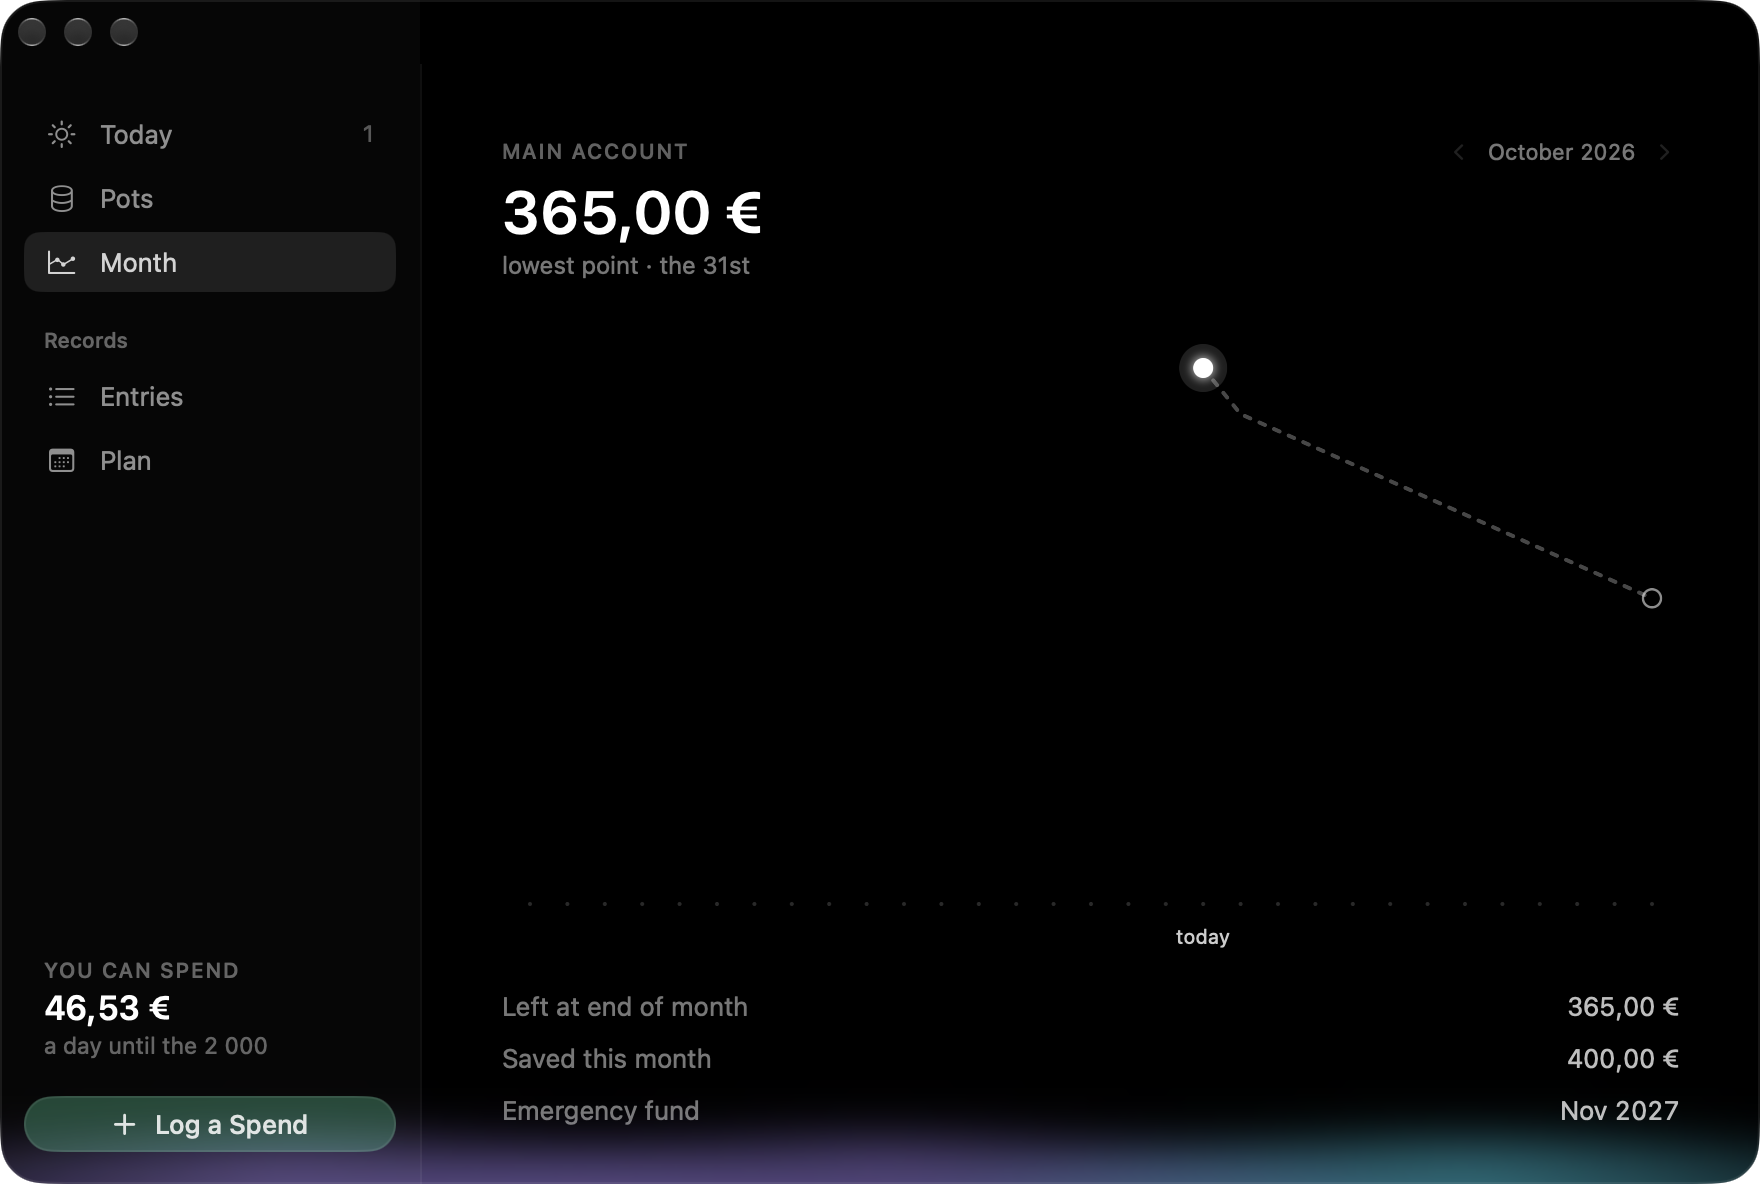
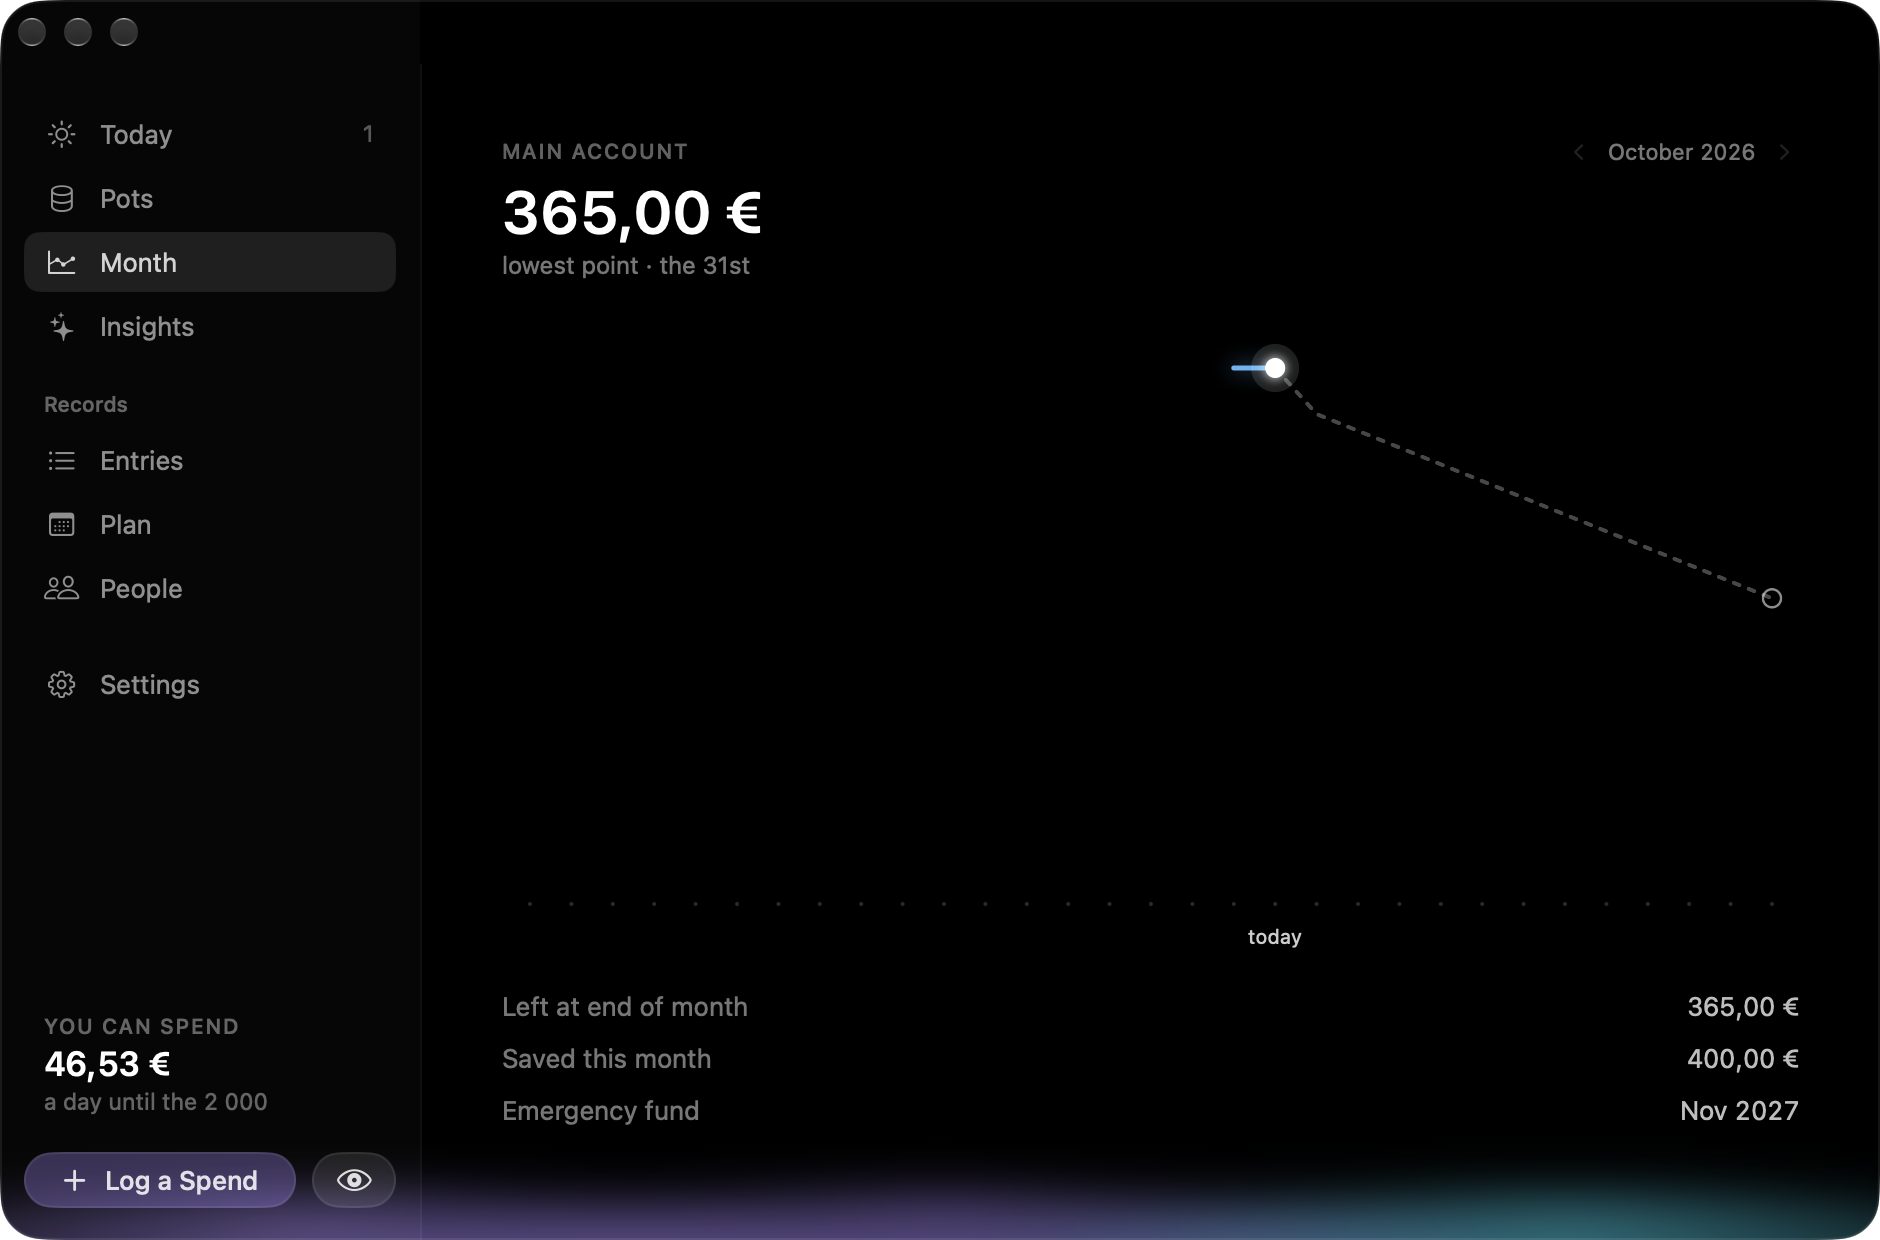
The README shows Tally as it is now: Insights, the first run, yearly items, paying by card or cash, a window that grows

diff --git a/README.md b/README.md
@@ -8,6 +8,8 @@ today, what's still to pay this month, and when your emergency fund will be full
   <img src="docs/screenshots/pots.png" width="49%" alt="Pots: each account as a tube of light">
   <img src="docs/screenshots/month.png" width="49%" alt="Month: your main account as a line through the month">
   <img src="docs/screenshots/plan.png" width="49%" alt="The plan, grouped as you think of it">
+  <img src="docs/screenshots/insights.png" width="49%" alt="Insights, and questions answered on your Mac">
+  <img src="docs/screenshots/firstrun.png" width="49%" alt="The first run builds your own plan">
 </p>
 
 <sub>Screenshots use made-up example data.</sub>
@@ -24,16 +26,18 @@ today, what's still to pay this month, and when your emergency fund will be full
   planned, with the lowest point marked. Scroll back through past months.
 - **Your plan** is a list of what happens every month: what comes in, what goes to savings, what goes out.
   Things can happen on a day, in a window of days ("between the 15th and 20th"), any day, or "when the salary
-  arrives". Unpaid items carry over to the next month instead of quietly disappearing.
-- **Log a spend** in a couple of seconds (⌘N): an amount, a category, done. ⌘Z undoes the last thing you recorded.
+  arrives", and every month, every few months or once a year (a domain, an insurance). Unpaid items carry over to
+  the next month instead of quietly disappearing.
+- **Log a spend** in a couple of seconds (⌘N): an amount, a category, paid by bank card, credit card or cash, done.
+  Shared with your partner? Say so, and Tally keeps what they owe you. ⌘Z undoes the last thing you recorded.
 
-A sidebar takes you between Today, Pots, Month, Insights, your entries, the plan and People (⌘1–⌘7). People keeps what anyone owes you, or you owe them: money you lent or borrowed, paid back either way, or owed from before you started. Insights points out what needs a look: running short before payday, a pace faster than the plan, small spends that add up, a category up on last month, a spend that comes every month but isn't planned, a card owing more each month, and what your partner owes you; every one worked out exactly on your Mac. On a Mac with Apple Intelligence you can also ask it things ("what did I spend on coffee with Sam this month?"): the on-device model only reads the question, and Tally answers from your data. An entry or a plan item opens beside its list; Log a Spend and payday open as a card in the middle, over the blurred window; pull it down or click away to close it.
+A sidebar takes you between Today, Pots, Month, Insights, your entries, the plan and People (⌘1–⌘7). People keeps what anyone owes you, or you owe them: money you lent or borrowed, paid back either way, or owed from before you started. Insights points out what needs a look: running short before payday, a pace faster than the plan, small spends that add up, a category up on last month, a spend that comes every month but isn't planned, a card owing more each month, and what your partner owes you; every one worked out exactly on your Mac. On a Mac with Apple Intelligence you can also ask it things ("what did I spend on coffee with Sam this month?"): the on-device model only reads the question, and Tally answers from your data. Every screen grows with the window, from a small one to full screen. An entry or a plan item opens beside its list; Log a Spend and payday open as a card in the middle, over the blurred window; pull it down or click away to close it.
 
 ## Private by design
 
 Tally has no account, no network access and no analytics. Your data is a single file on your Mac
 (`~/Library/Application Support/Budget/Budget.store`) and never leaves it. In Settings (⌘,) it can lock behind
-Touch ID, and every amount can be hidden at once (click a big number, the eye, or press ⇧⌘H) when someone is looking.
+Touch ID, and every amount can be hidden at once (and start hidden when Tally opens) (click a big number, the eye, or press ⇧⌘H) when someone is looking.
 
 ## Download
 
